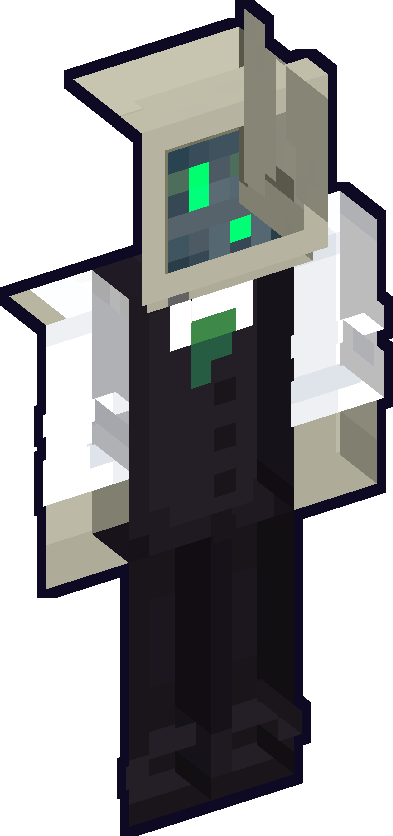
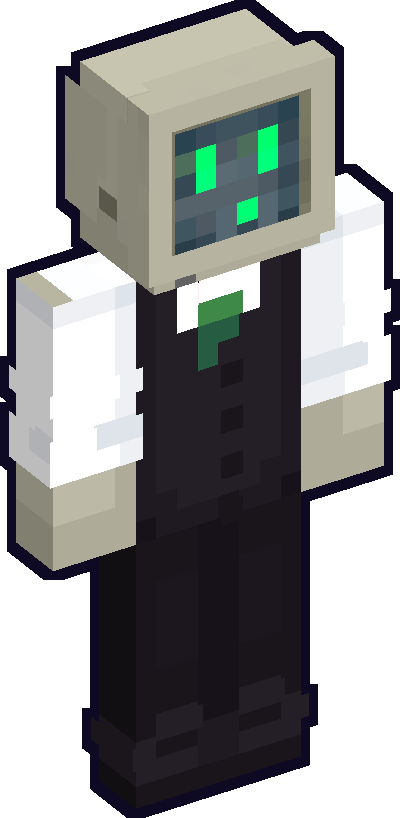
紹介画像の表紙を作り直す(DJ だけ・飾りなし)
Claude-Session: https://claude.ai/code/session_01B2FgibtyYDajcCp47YzWMQ

Changed region(s): [[0.0, 0.0, 1.0, 1.0], [0.7634, 0.8863, 0.7939, 0.9474]]

diff --git a/mpl/promo/01_kv.html b/mpl/promo/01_kv.html
@@ -16,29 +16,23 @@ body{background:radial-gradient(1400px 900px at 70% 30%,#231a55 0%,var(--bg1) 70
 .sky{color:var(--sky)}.pink{color:var(--pink)}.gold{color:var(--gold)}.green{color:var(--green)}.purple{color:var(--purple)}.orange{color:var(--orange)}
 .grain{position:absolute;inset:0;background:repeating-linear-gradient(0deg,rgba(255,255,255,.015) 0 2px,transparent 2px 4px);pointer-events:none}
 
-.bgisl{position:absolute;right:-380px;top:-160px;width:2300px;height:1500px;background:url(assets/island.png) center/contain no-repeat;filter:blur(7px) brightness(.62) saturate(1.15)}
-.shade{position:absolute;inset:0;background:linear-gradient(90deg,#0c0a20 0%,rgba(12,10,32,.92) 26%,rgba(12,10,32,.45) 52%,rgba(12,10,32,.15) 100%),linear-gradient(0deg,rgba(12,10,32,.7),transparent 30%)}
-.wm{position:absolute;right:120px;top:40px;width:820px;opacity:.10}
-.left{position:absolute;left:118px;top:200px;width:900px}
-.tag{font-size:34px;color:var(--sky);letter-spacing:.06em;text-shadow:0 0 18px rgba(79,210,255,.45)}
-.logo{display:block;width:820px;margin:18px 0 6px -18px;filter:drop-shadow(0 10px 30px rgba(0,0,0,.45))}
-.copy{font-size:64px;line-height:1.25;text-shadow:3px 3px 0 #0b0920,0 0 26px rgba(255,255,255,.25)}
-.stats{display:flex;gap:22px;margin-top:40px}
-.st{display:flex;align-items:baseline;gap:14px;border:3px solid var(--sky);background:rgba(12,10,32,.55);padding:10px 22px 12px;box-shadow:4px 4px 0 rgba(0,0,0,.5)}
-.st b{font-size:58px;font-weight:400;line-height:1}.st span{font-size:30px}
-.group .ch{position:absolute;bottom:40px;image-rendering:pixelated;filter:drop-shadow(0 18px 24px rgba(0,0,0,.55))}
-.fl{position:absolute;filter:drop-shadow(0 8px 14px rgba(0,0,0,.45))}
+body{background:#1b2a5e}
+.isl{position:absolute;right:-300px;top:60px;width:1560px;filter:saturate(.95)}
+.panel{position:absolute;inset:0;background:#15112f;clip-path:polygon(0 0,49% 0,37% 100%,0 100%)}
+.edge{position:absolute;inset:0;background:#ff5fa8;clip-path:polygon(49% 0,49.5% 0,37.5% 100%,37% 100%)}
+.dj{position:absolute;right:300px;bottom:-120px;height:980px;image-rendering:pixelated}
+.left{position:absolute;left:110px;top:230px;width:760px}
+.logo{display:block;width:700px;margin-left:-14px}
+.copy{margin-top:34px;font-weight:900;font-size:50px;line-height:1.35;letter-spacing:.02em}
+.foot{margin-top:40px;font-weight:700;font-size:24px;color:#9f9bcc;letter-spacing:.04em}
+.grain{display:none}
 </style></head><body>
-<div class="bgisl"></div><div class="shade"></div>
-<svg class="wm" viewBox="0 0 100 100"><polygon points="50,4 62,38 98,38 69,60 80,95 50,74 20,95 31,60 2,38 38,38" fill="none" stroke="#fff" stroke-width="5" stroke-linejoin="round"/></svg>
+<img class="isl" src="assets/island.png">
+<div class="panel"></div><div class="edge"></div>
+<img class="dj" src="assets/char_dj_r.png">
 <div class="left">
-  <div class="tag dot">PARTY BOARD GAME&nbsp;&nbsp;-&nbsp;&nbsp;MINECRAFT BEDROCK</div>
   <img class="logo" src="assets/logo.png">
-  <div class="copy dot">島じゅう巻きこむ、<br>すごろくパーティ。</div>
-  <div class="stats"><div class="st"><b class="dot gold">30</b><span class="dot">種類のミニゲーム</span></div><div class="st"><b class="dot pink">10</b><span class="dot">人の個性派BOT</span></div></div>
+  <p class="copy">島じゅう巻きこむ、<br>すごろくパーティ。</p>
+  <p class="foot">Minecraft 統合版 ワールド</p>
 </div>
-<div class="group"><img class="ch" src="assets/char_humming.png" style="right:760px;height:560px;z-index:1"><img class="ch" src="assets/char_comet_r.png" style="right:40px;height:560px;z-index:1"><img class="ch" src="assets/char_oracle.png" style="right:600px;height:640px;z-index:2"><img class="ch" src="assets/char_dj_r.png" style="right:170px;height:640px;z-index:2"><img class="ch" src="assets/char_jack.png" style="right:330px;height:740px;z-index:3"></div>
-<img class="fl" src="assets/icon_star.png" style="right:930px;top:170px;width:120px;transform:rotate(-14deg)">
-<img class="fl" src="assets/icon_coin.png" style="right:120px;top:210px;width:96px;transform:rotate(12deg)">
-<img class="fl" src="assets/icon_dice.png" style="right:860px;top:640px;width:100px;transform:rotate(16deg)">
 <div class="grain"></div></body></html>

diff --git a/tools/mpl_promo.py b/tools/mpl_promo.py
@@ -27,36 +27,27 @@ def page(name, body, extra=''):
 
 pages = []
 # ===== 1. 表紙 =====
-chars = [('humming', 0, 150, 560, 2), ('byte', 1, 1650 - 1920 + 1920 - 260, 560, 2), ('oracle', 0, 300, 620, 3), ('dj', 1, 1490 - 1920 + 1920 - 410, 620, 3), ('jack', 0, 520, 700, 4)]
-kv_chars = [  # (名前, 向き反転, 右からの位置px, 高さpx, 重なり)
-    ('humming', False, 760, 560, 1), ('comet', True, 40, 560, 1), ('oracle', False, 600, 640, 2), ('dj', True, 170, 640, 2), ('jack', False, 330, 740, 3)]
-ch_html = ''.join(f'<img class="ch" src="{A}/char_{n}{"_r" if fl else ""}.png" style="right:{r}px;height:{h}px;z-index:{z}">' for n, fl, r, h, z in kv_chars)
+#   飾りは足さない(光・ぼかし・透かし・浮かぶアイコンなし)。左は斜めに切った色の面にロゴとコピー、右は島の上に DJトシオ だけ
 pages.append(page('01_kv', f'''
-<div class="bgisl"></div><div class="shade"></div>
-<svg class="wm" viewBox="0 0 100 100"><polygon points="50,4 62,38 98,38 69,60 80,95 50,74 20,95 31,60 2,38 38,38" fill="none" stroke="#fff" stroke-width="5" stroke-linejoin="round"/></svg>
+<img class="isl" src="{A}/island.png">
+<div class="panel"></div><div class="edge"></div>
+<img class="dj" src="{A}/char_dj_r.png">
 <div class="left">
-  <div class="tag dot">PARTY BOARD GAME&nbsp;&nbsp;-&nbsp;&nbsp;MINECRAFT BEDROCK</div>
   <img class="logo" src="{A}/logo.png">
-  <div class="copy dot">島じゅう巻きこむ、<br>すごろくパーティ。</div>
-  <div class="stats"><div class="st"><b class="dot gold">30</b><span class="dot">種類のミニゲーム</span></div><div class="st"><b class="dot pink">10</b><span class="dot">人の個性派BOT</span></div></div>
+  <p class="copy">島じゅう巻きこむ、<br>すごろくパーティ。</p>
+  <p class="foot">Minecraft 統合版 ワールド</p>
 </div>
-<div class="group">{ch_html}</div>
-<img class="fl" src="{A}/icon_star.png" style="right:930px;top:170px;width:120px;transform:rotate(-14deg)">
-<img class="fl" src="{A}/icon_coin.png" style="right:120px;top:210px;width:96px;transform:rotate(12deg)">
-<img class="fl" src="{A}/icon_dice.png" style="right:860px;top:640px;width:100px;transform:rotate(16deg)">
 ''', '''
-.bgisl{position:absolute;right:-380px;top:-160px;width:2300px;height:1500px;background:url(assets/island.png) center/contain no-repeat;filter:blur(7px) brightness(.62) saturate(1.15)}
-.shade{position:absolute;inset:0;background:linear-gradient(90deg,#0c0a20 0%,rgba(12,10,32,.92) 26%,rgba(12,10,32,.45) 52%,rgba(12,10,32,.15) 100%),linear-gradient(0deg,rgba(12,10,32,.7),transparent 30%)}
-.wm{position:absolute;right:120px;top:40px;width:820px;opacity:.10}
-.left{position:absolute;left:118px;top:200px;width:900px}
-.tag{font-size:34px;color:var(--sky);letter-spacing:.06em;text-shadow:0 0 18px rgba(79,210,255,.45)}
-.logo{display:block;width:820px;margin:18px 0 6px -18px;filter:drop-shadow(0 10px 30px rgba(0,0,0,.45))}
-.copy{font-size:64px;line-height:1.25;text-shadow:3px 3px 0 #0b0920,0 0 26px rgba(255,255,255,.25)}
-.stats{display:flex;gap:22px;margin-top:40px}
-.st{display:flex;align-items:baseline;gap:14px;border:3px solid var(--sky);background:rgba(12,10,32,.55);padding:10px 22px 12px;box-shadow:4px 4px 0 rgba(0,0,0,.5)}
-.st b{font-size:58px;font-weight:400;line-height:1}.st span{font-size:30px}
-.group .ch{position:absolute;bottom:40px;image-rendering:pixelated;filter:drop-shadow(0 18px 24px rgba(0,0,0,.55))}
-.fl{position:absolute;filter:drop-shadow(0 8px 14px rgba(0,0,0,.45))}
+body{background:#1b2a5e}
+.isl{position:absolute;right:-300px;top:60px;width:1560px;filter:saturate(.95)}
+.panel{position:absolute;inset:0;background:#15112f;clip-path:polygon(0 0,49% 0,37% 100%,0 100%)}
+.edge{position:absolute;inset:0;background:#ff5fa8;clip-path:polygon(49% 0,49.5% 0,37.5% 100%,37% 100%)}
+.dj{position:absolute;right:300px;bottom:-120px;height:980px;image-rendering:pixelated}
+.left{position:absolute;left:110px;top:230px;width:760px}
+.logo{display:block;width:700px;margin-left:-14px}
+.copy{margin-top:34px;font-weight:900;font-size:50px;line-height:1.35;letter-spacing:.02em}
+.foot{margin-top:40px;font-weight:700;font-size:24px;color:#9f9bcc;letter-spacing:.04em}
+.grain{display:none}
 '''))
 # ===== 2. あそびかた =====
 pages.append(page('02_rules', f'''

diff --git a/tools/mpl_promo_assets.py b/tools/mpl_promo_assets.py
@@ -61,7 +61,7 @@ BOTS = ['jack', 'humming', 'widow', 'splash', 'oracle', 'byte', 'shade', 'jester
 for n in BOTS + ['dj']:
     t = Image.open(os.path.join(ROOT, 'mpl', 'assets', 'dj_skin.png') if n == 'dj' else os.path.join(RP, 'textures', 'entity', 'mpl_bots', f'{n}.png'))
     outlined(render(t, 22), 9).save(os.path.join(OUT, f'char_{n}.png'))
-    outlined(render(t, 22, flip=True), 9).save(os.path.join(OUT, f'char_{n}_r.png'))
+    outlined(render(t, 22), 9).transpose(Image.FLIP_LEFT_RIGHT).save(os.path.join(OUT, f'char_{n}_r.png'))   # 向きちがいは鏡うつし
     outlined(render(t, 26, only_head=True), 8).save(os.path.join(OUT, f'head_{n}.png'))
 # 大きいアイコン(tools/mpl_icons.py の形を大きく)
 spec = importlib.util.spec_from_file_location('icons', os.path.join(ROOT, 'tools', 'mpl_icons.py')); ic = importlib.util.module_from_spec(spec)
